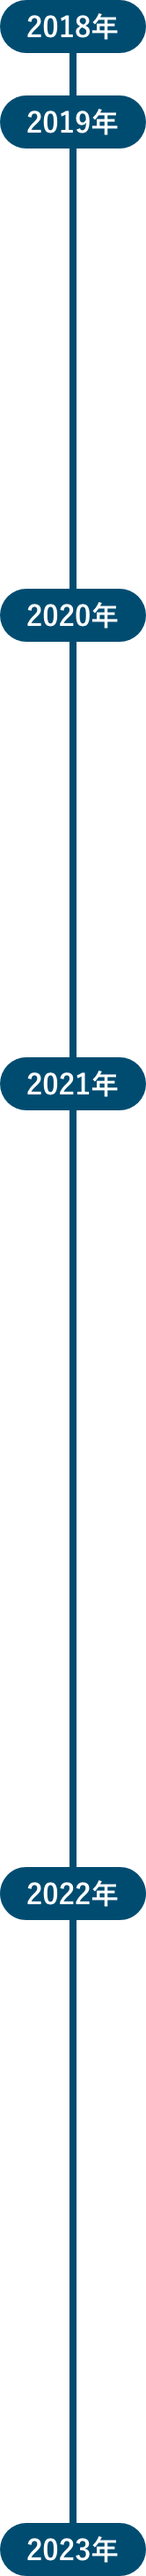
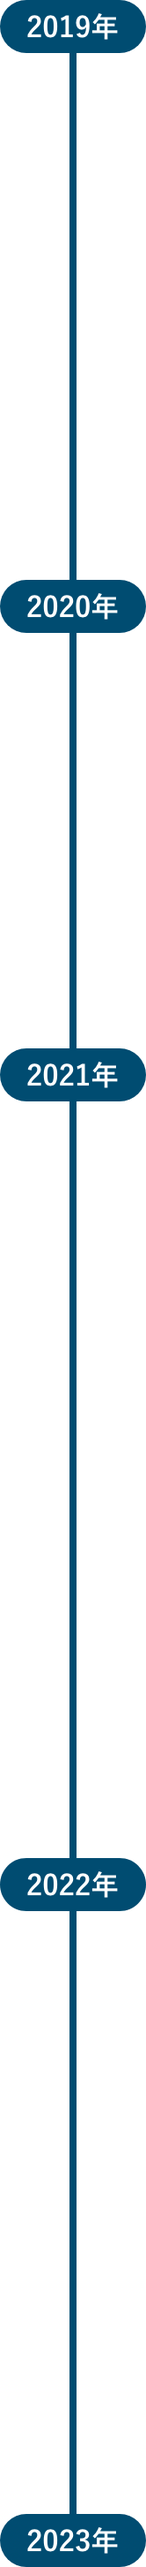
沿革修正

diff --git a/public/history.html b/public/history.html
@@ -146,46 +146,38 @@
 		<main>
 			<div class="history_container">
 				<figure class="history_image">
-					<img class="history_img_pc" src="files/images/history_img.png" alt="年表" />
+					<img class="history_img_pc" src="files/images/history_img_pc.png" alt="年表" />
 					<img class="history_img_sp" src="files/images/history_img_sp.png" alt="年表" />
 				</figure>
 				<div class="history_list">
-					<ul class="yearlist in2018">
-						<li class="yearlist_list">操業開始</li>
-					</ul>
-
 					<ul class="yearlist in2019">
-						<li class="yearlist_list_list period">
-							<span class="earlyperiod">前期</span>
-							<div class="text">ゲーム系、Web系、VR系の開発業務を開始、ベトナムとの協業を開始</div>
-						</li>
 						<li class="yearlist_list_list">
 							<span class="month">2月</span>
-							<div class="text">創立</div>
+							<div class="text">操業開始</div>
 						</li>
 						<li class="yearlist_list_list">
 							<span class="month">4月</span>
 							<div class="text">コーポレートロゴが完成</div>
 						</li>
 						<li class="yearlist_list_list">
+							<span class="month">4月</span>
+							<div class="text">ゲーム系、Web系、VR系の開発業務を開始、ベトナムとの協業を開始</div>
+						</li>
+						<li class="yearlist_list_list">
 							<span class="month">6月</span>
 							<div class="text">東京商工会議所に加盟</div>
-						</li>
-						<li class="yearlist_list_list period">
-							<span class="earlyperiod">後期</span>
-							<div class="text">位置情報系開発業務、スマートフォン向けゲームの開発業務を開始</div>
 						</li>
 						<li class="yearlist_list_list">
 							<span class="month">10月</span>
 							<div class="text">社員数が2名に増加</div>
 						</li>
+						<li class="yearlist_list_list">
+							<span class="month">12月</span>
+							<div class="text">位置情報系開発業務、スマートフォン向けゲームの開発業務を開始</div>
+						</li>
 					</ul>
 					<div class="space_1"></div>
-					<ul class="yearlist in2020">
-						<li class="yearlist_list_list period">
-							<span class="earlyperiod">前期</span>
-							<div class="text">事業拡大に伴い、本社を移転</div>
-						</li>
+					<ul class="yearlist in2020 mb-4">
 						<li class="yearlist_list_list">
 							<span class="month">1月</span>
 							<div class="text">ベトナムとの取引のため仮想通貨を導入</div>
@@ -198,8 +190,8 @@
 							<span class="month">5月</span>
 							<div class="text">Volcano Gamesのロゴを追加</div>
 						</li>
-						<li class="yearlist_list_list period">
-							<span class="earlyperiod">後期</span>
+						<li class="yearlist_list_list">
+							<span class="month">10月</span>
 							<div class="text">ものづくり補助金実施事業を開始</div>
 						</li>
 						<li class="yearlist_list_list">
@@ -213,13 +205,13 @@
 					</ul>
 					<div class="space_2"></div>
 					<ul class="yearlist in2021">
-						<li class="yearlist_list_list period">
-							<span class="earlyperiod">前期</span>
-							<div class="text">自社製ゲームをリリースし、受託以外の業務を本格化</div>
-						</li>
 						<li class="yearlist_list_list">
 							<span class="month">1月</span>
 							<div class="text">社員数が5名に増加</div>
+						</li>
+						<li class="yearlist_list_list">
+							<span class="month">4月</span>
+							<div class="text">自社製ゲームをリリースし、受託以外の業務を本格化</div>
 						</li>
 						<li class="yearlist_list_list">
 							<span class="month">5月</span>
@@ -232,10 +224,6 @@
 							<span class="month">5月</span>
 							<div class="text">採用活動を強化し始め、断片の価値の追求の特設サイトを公開</div>
 						</li>
-						<li class="yearlist_list_list period">
-							<span class="earlyperiod">後期</span>
-							<div class="text">謎謎火山をオープンし、断片的なサービスのリリースを開始</div>
-						</li>
 						<li class="yearlist_list_list">
 							<span class="month">10月</span>
 							<div class="text">社員数が7名に増加。<br />短時間正社員制度の運用を開始</div>
@@ -246,15 +234,15 @@
 						</li>
 						<li class="yearlist_list_list">
 							<span class="month">12月</span>
+							<div class="text">謎謎火山をオープンし、断片的なサービスのリリースを開始</div>
+						</li>
+						<li class="yearlist_list_list">
+							<span class="month">12月</span>
 							<div class="text">社員数が10名に増加</div>
 						</li>
 					</ul>
 					<div class="space_3"></div>
 					<ul class="yearlist in2022">
-						<li class="yearlist_list_list period">
-							<span class="earlyperiod">前期</span>
-							<div class="text">経理代行等バックオフィスサポート業務を開始</div>
-						</li>
 						<li class="yearlist_list_list">
 							<span class="month">1月</span>
 							<div class="text">事業実績ページを公開</div>
@@ -268,6 +256,10 @@
 							<div class="text">
 								【はたママ】さんにて、「子育てしながら働きやすい会社10選・2022」に選出される
 							</div>
+						</li>
+						<li class="yearlist_list_list">
+							<span class="month">4月</span>
+							<div class="text">理代行等バックオフィスサポート業務を開始</div>
 						</li>
 						<li class="yearlist_list_list">
 							<span class="month">4月</span>

diff --git a/sass/main.sass b/sass/main.sass
@@ -61,6 +61,7 @@ $size-7: 0.75rem !default
 
 ul.yearlist
   margin-top: 16px
+  margin-bottom: 64px
   padding: 0px
 
 .text
@@ -69,15 +70,6 @@ ul.yearlist
 
 li
   list-style: none
-
-.earlyperiod
-  font-size: 14px
-  color: #fff
-  background-color: #000
-  padding: 6px 25px
-  border-radius: 13px
-  text-align: center
-  margin-right: 16px
 
 .month
   font-weight: bold
@@ -92,7 +84,7 @@ li
   font-weight: bold
 
 .yearlist_list_list
-  margin-bottom: 32px
+  margin-bottom: 24px
 
 
   /*事業実績*/
